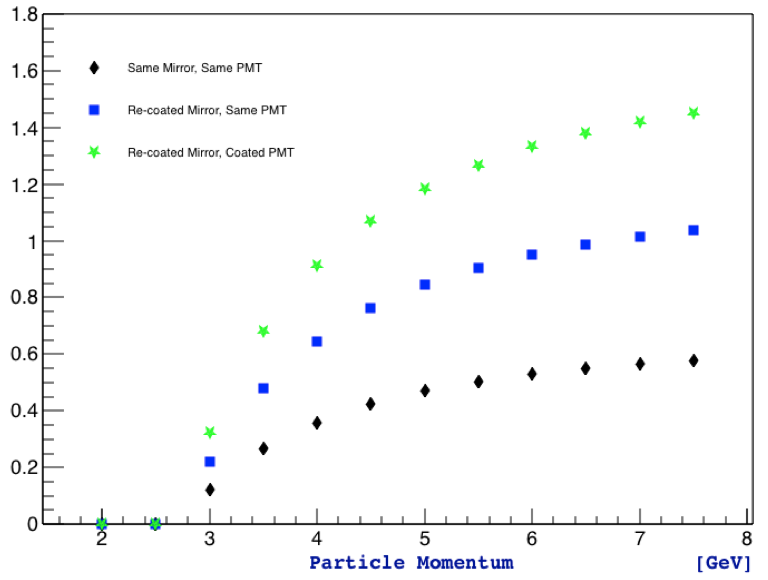
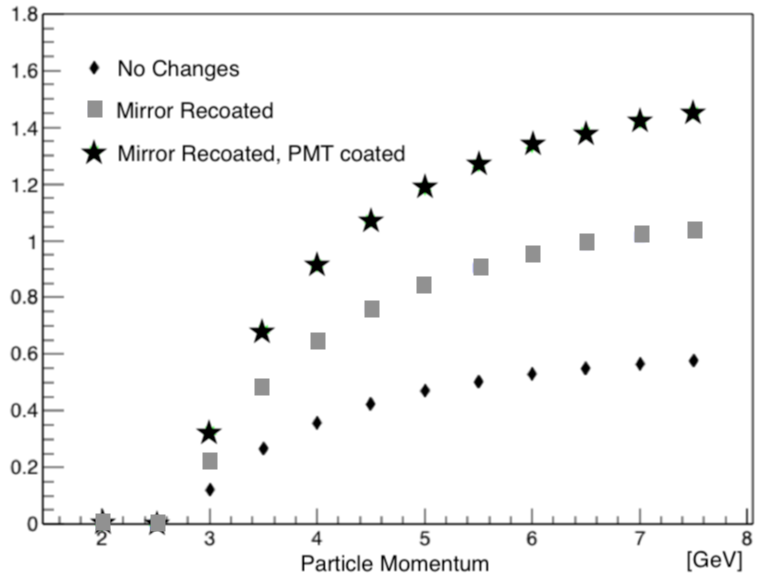
refurbishment overview corrections

diff --git a/ltcc/refurbishment.tex b/ltcc/refurbishment.tex
@@ -71,22 +71,23 @@ the Cherenkov radiation yield as a function of wavelength and momenta:
 \end{equation}
 
 \noindent
-where $\alpha$ is the fine structure constant, $\theta_C$ is the Cherenkov cone half-angle, $z$ is the particle charge and $v$ its speed.
+where $\alpha$ is the fine structure constant, $\theta_C$ is the Cherenkov cone half-angle, $z$ is the particle charge and $v$ is its speed.
 
 One particular combination among the described scenarios is given as an example \F{photonYieldStudy} for pions,
-the measured non-furbished mirror reflectivity, a 100$\%$ transparent gas and a PMT with ideal refurbished quantum efficiency.
+the measured non-refurbished mirror reflectivity, a 100$\%$ transparent gas, and a PMT with ideal refurbished quantum efficiency.
 
 \begin{figure}
 	\centering
 	\includegraphics[width=0.98\columnwidth, height=0.75\columnwidth]{img/photonYieldStudy.png}
-	\caption{Cherenkov light yield as a function of pion momentum and photon wavelength using the Frank\textendash Tamm for one of the scenarios considered:
-            mirrors and Winston cones with low reflectivity (LTCC original mirror, not refurbished), a perfectly transparent gas and an ideally refurbished PMT.}
+	\caption{Cherenkov light yield as a function of pion momentum and photon wavelength using the Frank\textendash Tamm formula
+             for one of the scenarios considered: mirrors and Winston cones with low reflectivity (LTCC original mirror, not refurbished),
+             a perfectly transparent gas and an ideally refurbished PMT.}
 	\label{fig:photonYieldStudy}
 \end{figure}
 
 
 When the number of reflections is taken into account, the refurbishment shows
-a factor of 2.4 gain in the visible light wavelengths and a factor of 3 in the UV:
+a factor of 2.5 gain in the visible light wavelengths and a factor of 3.8 in the UV:
 
 \begin{itemize}
 	\item Visible:
@@ -102,15 +103,17 @@ a factor of 2.4 gain in the visible light wavelengths and a factor of 3 in the U
 \end{itemize}
 
 
-The results have been summarized in \F{refurbishmentGains} for two main scenarios: mirror re-coating and PMT quantum efficiency improvements.
-By performing both of these improvements the study shows that the LTCC response to pions will be the same as it was for electrons above 4 GeV.
+The results have been summarized in \F{refurbishmentGains} for the two main scenarios: mirror re-coating and PMT quantum efficiency improvements.
+By performing both of these improvements, the study shows that the LTCC response to pions will be the same as it was for electrons above 4 GeV
+in the original LTCC for CLAS.
 
 \begin{figure}
 	\centering
 	\includegraphics[width=0.99\columnwidth, height=0.7\columnwidth]{img/refurbishmentGains.png}
-	\caption{Ratio of LTCC response to pions to old response to electrons. Black diamonds: with no refurbishment, the goal of detecting pions cannot be reached.
-            More than a factor of two can be gained by re-coating the mirrors and Winston cones (blue squares). In addition, by increasing the
-            PMT response to UV light (green stars), the LTCC can reach the old performance above pion momenta of 4 GeV.}
+	\caption{Ratio of LTCC response to pions to the old response to electrons. Diamonds: with no refurbishment, the goal of
+		     detecting pions cannot be reached. More than a factor of two can be gained by re-coating the mirrors and Winston cones
+             (squares). In addition, by increasing the PMT response to UV light (stars), the LTCC can reach the old
+			 performance above pion momenta of 4 GeV.}
 	\label{fig:refurbishmentGains}
 \end{figure}
 
@@ -133,7 +136,7 @@ The design changes of the LTCC are summarized below:
 		\item Re-coat all mirrors
 		\item Re-coat Winston Cones
 		\item Wavelength shifting re-coating of the PMTs
-		\item Add nose to increase gas volume
+		\item Modify small angle nose to increase gas volume
 	\end{enumerate}
 \end{enumerate}
 
